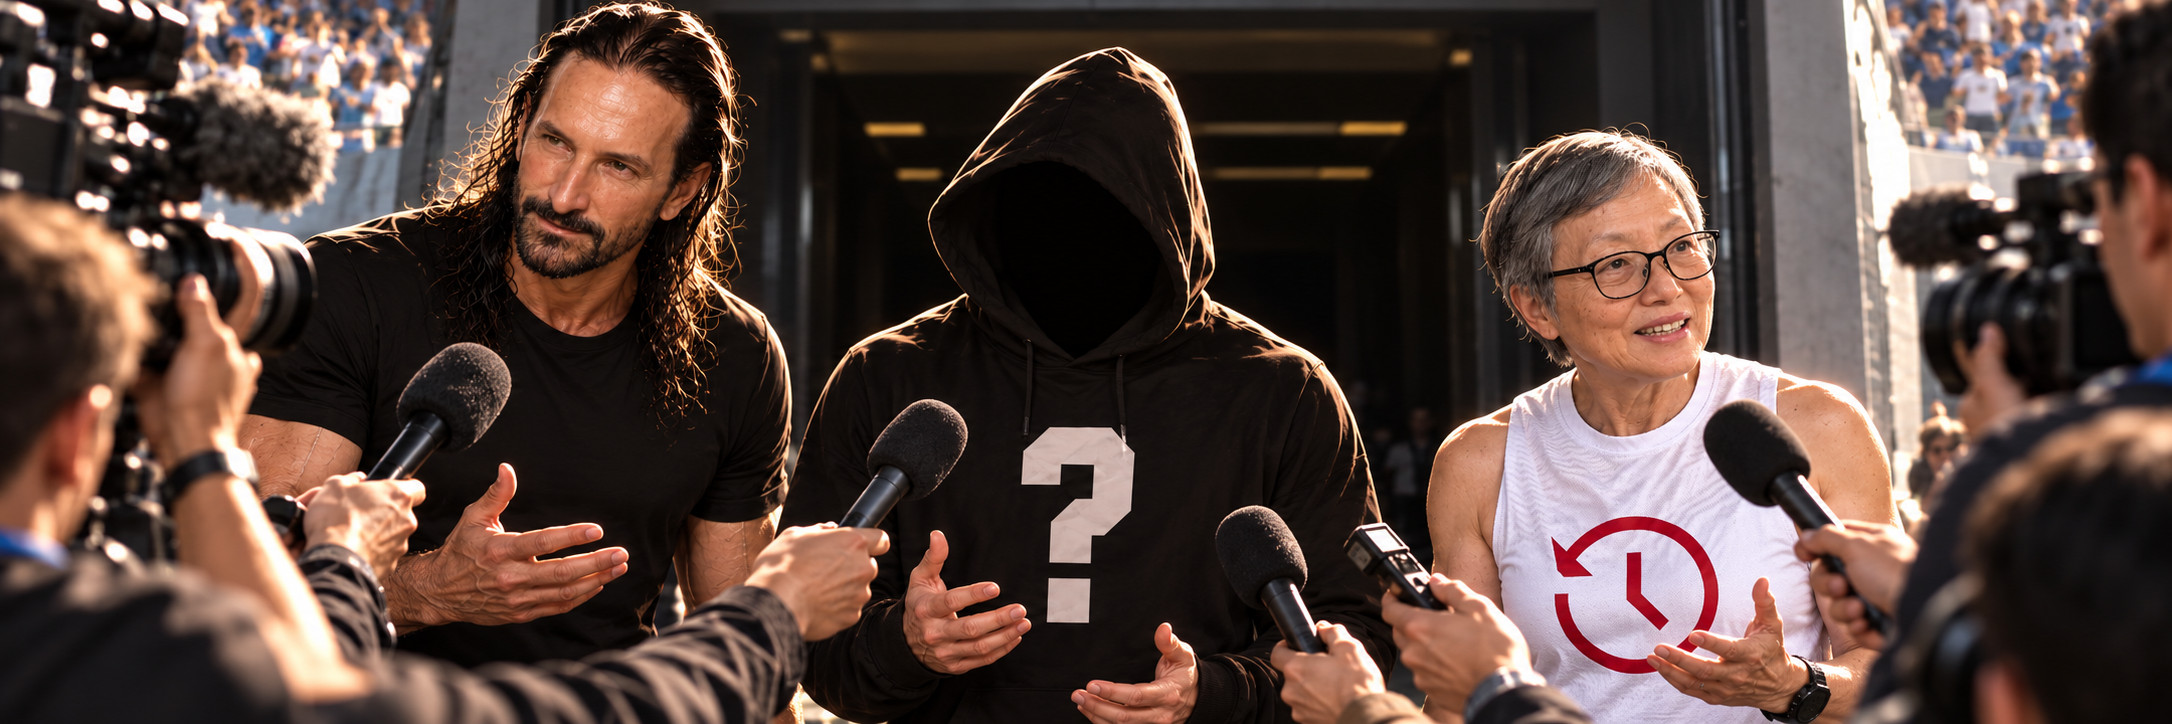
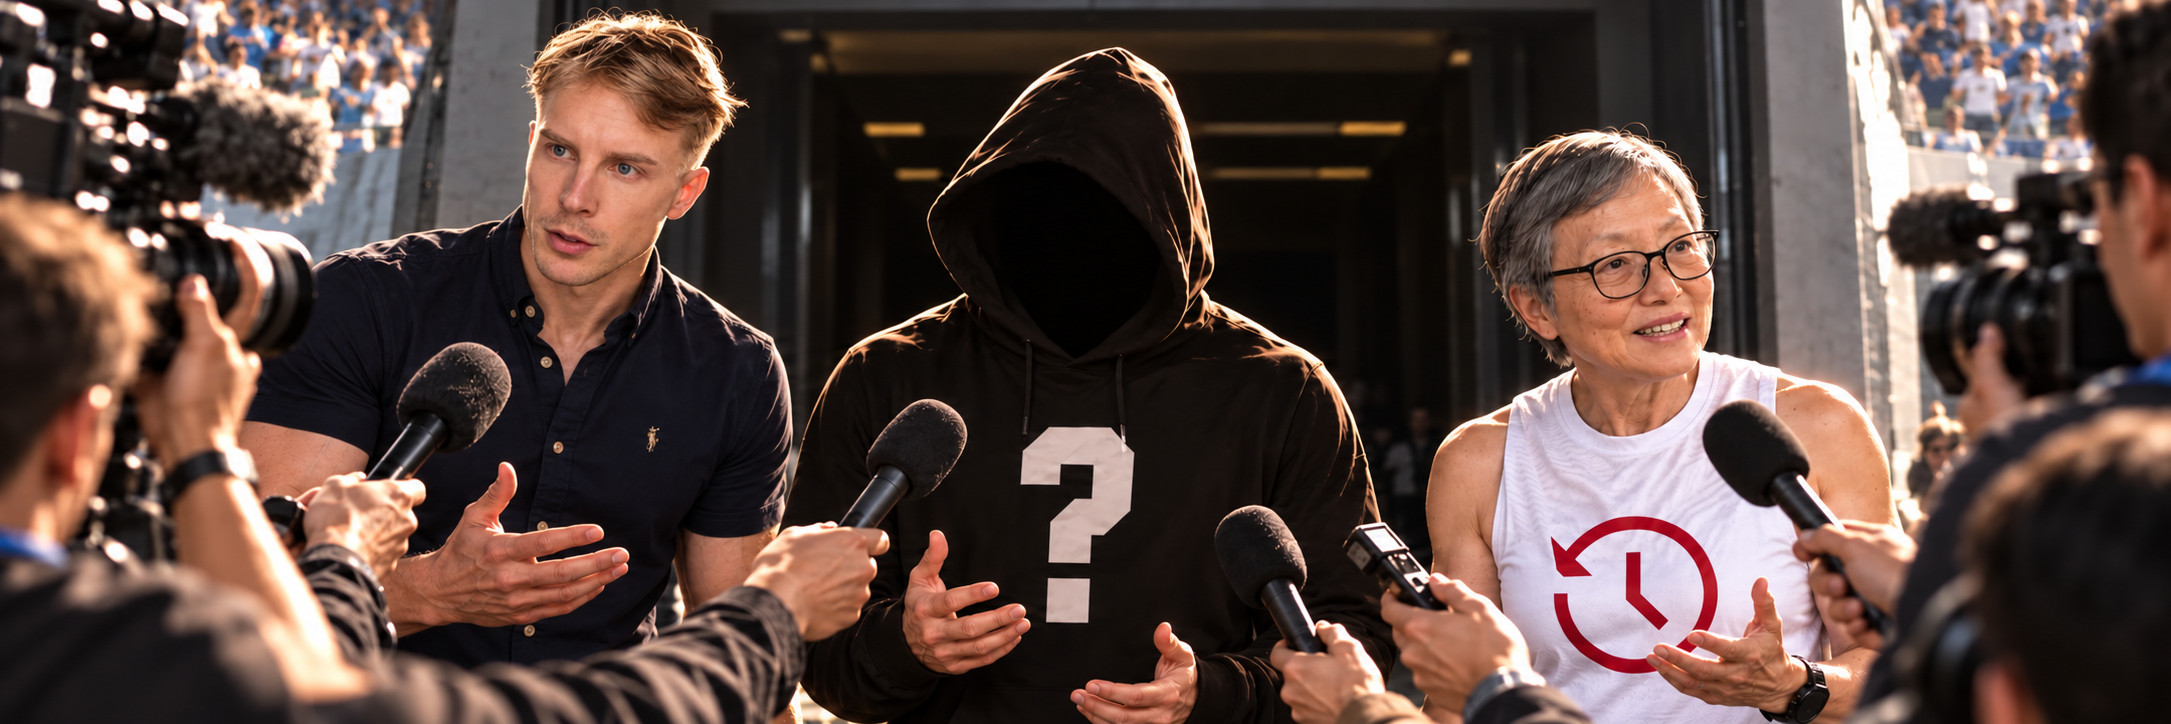
Use Siim in the interview scene

diff --git a/LongevityWorldCup.Website/wwwroot/onboarding/convergence.html b/LongevityWorldCup.Website/wwwroot/onboarding/convergence.html
@@ -1822,8 +1822,8 @@
                 case 3:
                     // Stage 3: The price of glory
                     document.querySelector('h1').textContent = "The price of glory";
-                    updateIllustration("apply-interview", "jpg", webpSource, jpegSource, illustrationImage);
-                    illustrationImage.alt = "Longevity athletes and reporters interview the hooded applicant";
+                    updateIllustration("apply-interview", "jpg", webpSource, jpegSource, illustrationImage, 2171, 724);
+                    illustrationImage.alt = "Siim Land and Wong join the hooded applicant for a press interview";
                     illustrationImage.loading = "lazy";
                     document.getElementById('privacyText').style.display = '';
                     document.getElementById('privacyDetails').style.display = '';
